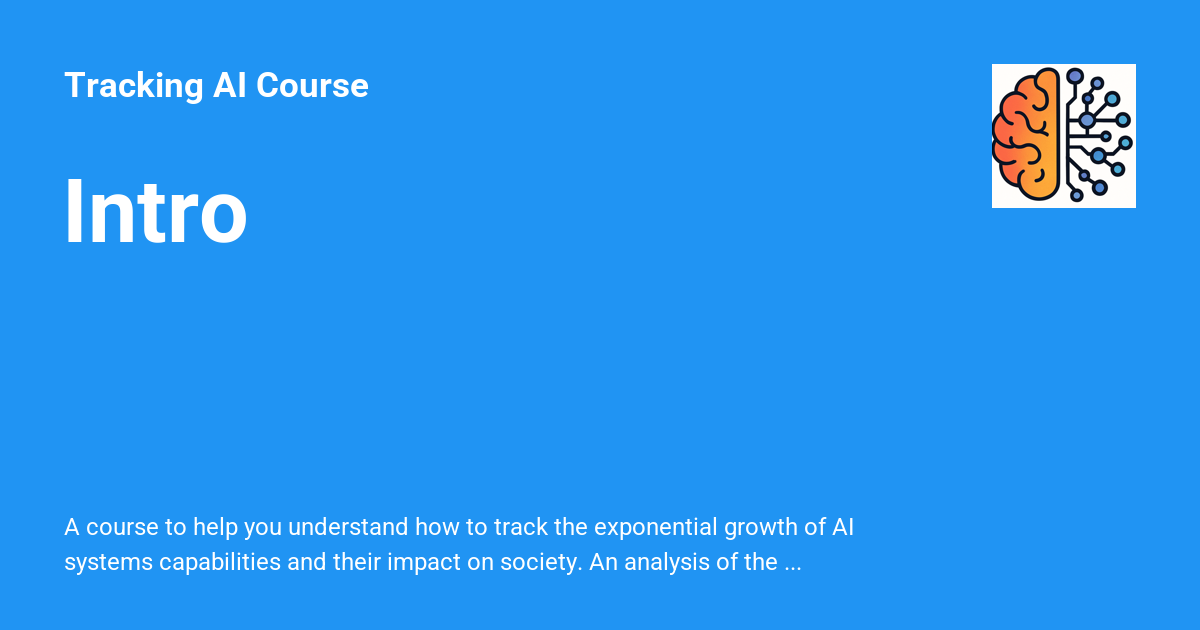
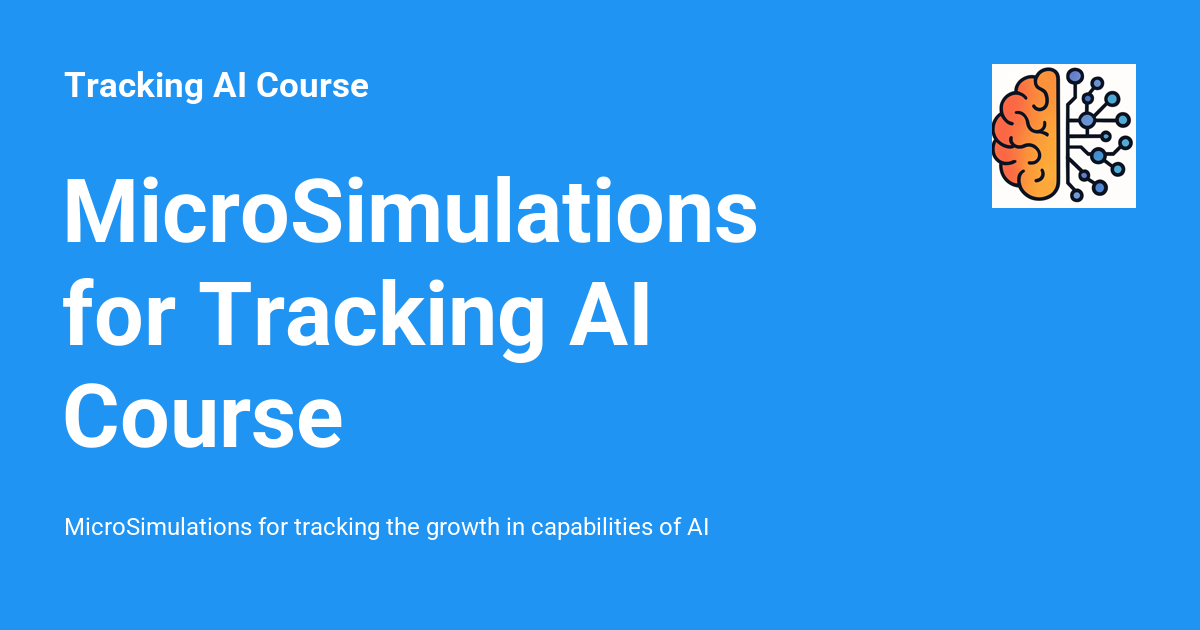
Deployed dfd4a30 with MkDocs version: 1.6.1

diff --git a/sims/index.html b/sims/index.html
@@ -6,7 +6,7 @@
       <meta charset="utf-8">
       <meta name="viewport" content="width=device-width,initial-scale=1">
       
-        <meta name="description" content="A course to help you understand how to track the exponential growth of AI systems capabilities and their impact on society.  An analysis of the limitations of LLMs and the need for world models">
+        <meta name="description" content="MicroSimulations for tracking the growth in capabilities of AI">
       
       
         <meta name="author" content="Dan McCreary">
@@ -29,7 +29,7 @@
     
     
       
-        <title>Intro - Tracking AI Course</title>
+        <title>MicroSimulations for Tracking AI Course - Tracking AI Course</title>
       
     
     
@@ -75,16 +75,16 @@
     
   
 <meta property="og:type" content="website" />
-<meta property="og:title" content="Intro - Tracking AI Course" />
-<meta property="og:description" content="A course to help you understand how to track the exponential growth of AI systems capabilities and their impact on society.  An analysis of the limitations of LLMs and the need for world models" />
-<meta property="og:image" content="https://dmccreary.github.io/tracking-ai-course/assets/images/social/sims/index.png" />
+<meta property="og:title" content="MicroSimulations for Tracking AI Course - Tracking AI Course" />
+<meta property="og:description" content="MicroSimulations for tracking the growth in capabilities of AI" />
+<meta property="og:image" content="https://dmccreary.github.io/tracking-ai-course/sims/thumbnail.png">
 <meta property="og:image:type" content="image/png" />
 <meta property="og:image:width" content="1200" />
 <meta property="og:image:height" content="630" />
 <meta property="og:url" content="https://dmccreary.github.io/tracking-ai-course/sims/" />
 <meta property="twitter:card" content="summary_large_image" />
-<meta property="twitter:title" content="Intro - Tracking AI Course" />
-<meta property="twitter:description" content="A course to help you understand how to track the exponential growth of AI systems capabilities and their impact on society.  An analysis of the limitations of LLMs and the need for world models" />
+<meta property="twitter:title" content="MicroSimulations for Tracking AI Course - Tracking AI Course" />
+<meta property="twitter:description" content="MicroSimulations for tracking the growth in capabilities of AI" />
 <meta property="twitter:image" content="https://dmccreary.github.io/tracking-ai-course/assets/images/social/sims/index.png" />
 </head>
   
@@ -138,7 +138,7 @@
         <div class="md-header__topic" data-md-component="header-topic">
           <span class="md-ellipsis">
             
-              Intro
+              MicroSimulations for Tracking AI Course
             
           </span>
         </div>
